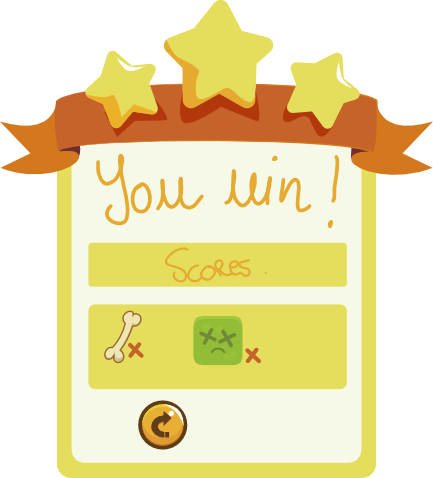
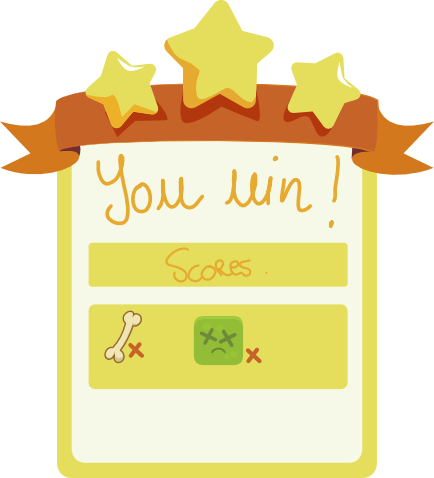
Implémentation fin jeux terminée. Ajout option : -quitter jeux, retour menu

diff --git a/src/menu_win.c b/src/menu_win.c
@@ -33,8 +33,8 @@ extern void Init_MenuWin()
 
 
     //Initialisation du hud score
-    SetHUD_IntToTexture( getNombreVie(), "" , 0, 550 , 392) ;
-    SetHUD_IntToTexture( getScores() ,"",  0, 680 , 392 );
+    SetHUD_IntToTexture( getNombreVie(), "" , getPlayer()->nombreVies , 550 , 392) ;
+    SetHUD_IntToTexture( getScores() ,"",  getPlayer()->scores , 680 , 392 );
 
 
     /* 
@@ -42,20 +42,20 @@ extern void Init_MenuWin()
      * Actif par défaut
      */ 
 
-    // ChargerData_Menu(0,0,&menu_win , "Reprendre partie"
-    //             ,"graphics_assets/icons_buttons/back_on_xs.png"
-    //             ,"graphics_assets/icons_buttons/back_off_xs.png"
-    //             ,339
-    //             ,491 );
+    ChargerData_Menu(0,0,&menu_win , "Reprendre partie"
+                ,"graphics_assets/win_icons/quit_on.png"
+                ,"graphics_assets/win_icons/quit_off.png"
+                ,552
+                ,473 );
 
-    // /* 
-    //  * Deuxieme option : Retour sur le menu principal
-    //  */
-    // ChargerData_Menu(1,1, &menu_win ,"Retour menu"
-    //             ,"graphics_assets/icons_buttons/menu_on_xs.png"
-    //             ,"graphics_assets/icons_buttons/menu_off_xs.png"
-    //             ,620
-    //             ,491 );
+    /* 
+     * Deuxieme option : Retour sur le menu principal
+     */
+    ChargerData_Menu(1,1, &menu_win ,"Retour menu"
+                ,"graphics_assets/win_icons/menu_on.png"
+                ,"graphics_assets/win_icons/menu_off.png"
+                ,657
+                ,473 );
 
     
 
@@ -86,13 +86,43 @@ extern void Input_MenuWin(SDL_Event *event)
             return;
         }
 
-        //Si la touche espace est pressee
-        if(event->key.keysym.sym == SDLK_RETURN && event->type == SDL_KEYDOWN )
+         //Si une touche est appuyee
+        if (event->type == SDL_KEYUP)
         {
-            getBaseGame()->state = IN_GAME;
-            return;
-        }
+            switch (event->key.keysym.sym)
+            {
+                //Cas touche fleche de gauche
+                case SDLK_LEFT:
+                    Gauche(getMenu_Win(), 2);
+                    break;
 
+                //Cas touche fleche de droite
+                case SDLK_RIGHT:
+                    Droite(getMenu_Win() , 2);
+                    break;
+
+                //Cas de la touche entree
+                case SDLK_RETURN:
+                    switch (getTouchePresse(getMenu_Win()))
+                    {
+                        //Cas de la premiere option : Quitter le jeux
+                        case 0:
+                            getBaseGame()->estActif = false;                  
+                            break;
+                        //Cas de la deuxieme option : retour sur le menu principal
+                        case 1:
+                            actualiserJoueur();   
+                            getBaseGame()->state = MENU_PRINCIPAL;       
+                            return;
+                            break;
+                        default:
+                            break;
+                    }//fin du switch
+                    break;
+                default:
+                    break;
+                } //fin du switch
+        }
         
     } // fin while (SDL_PollEvent)
 }

diff --git a/src/entite.c b/src/entite.c
@@ -149,7 +149,7 @@ extern void attaqueEnnemis()
         if ( !pt->estMort )
         {
             float distance = sqrt(pow(pt->rect->x - getPlayerX(), 2) +  pow(pt->rect->y - getPlayerY(), 2)); 
-            if( distance < (pt->rect->w*6) + getPlayer()->w*3 )
+            if( distance < (pt->rect->w*7) + getPlayer()->w )
             {
                 //Si le compteur de lancer disponible est inferieur a 1 => on reconfigure ce compteur et on cree un tir
                 if( pt->nb_lancer < 1) 

diff --git a/src/baseGame.c b/src/baseGame.c
@@ -137,7 +137,7 @@ extern void Rendu_Jeux()
 
   else if ( getBaseGame()->state == GAMEWIN )
   {
-    Dessiner_Menu( getMenu_Win() ,1, 413, 74,433, 478  );
+    Dessiner_Menu( getMenu_Win() ,2, 413, 74,433, 478  );
    AfficherHUD(getNombreVie());
     AfficherHUD( getScores() );
 
